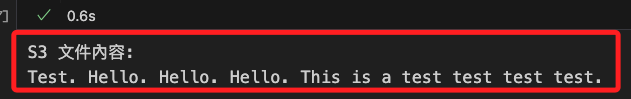
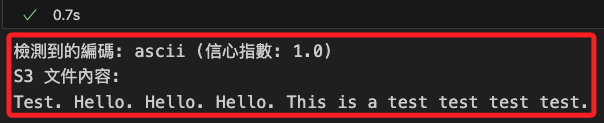
Commit on 2024-10-31 13:38:24

diff --git a/01_課程筆記/00_Lab/94020/Lab 7.1_Implementing a multi-lingual solution/01_官方範例/02_專案詳解.md b/01_課程筆記/00_Lab/94020/Lab 7.1_Implementing a multi-lingual solution/01_官方範例/02_專案詳解.md
@@ -695,13 +695,29 @@ _工作啟動之後，可使用 `get_transcription_job` 定期查詢轉錄工作
 5. 為求謹慎，運行以下腳本在本地查看 S3 文本中的內容。
 
     ```python
+    import chardet
+
+    # 定義 bucket 和文件的 key
+    bucket_name = bucket
+    # S3 中的文件路徑
+    s3_file_key = "lab71/translate-sample/test.txt"
+
     try:
         # 使用 get_object 取得 S3 文件內容
         response = s3_client.get_object(
             Bucket=bucket_name, Key=s3_file_key
         )
-        # 將內容解碼為字符串
-        file_content = response['Body'].read().decode('utf-8')
+        # 讀取文件內容的二進制數據
+        file_data = response['Body'].read()
+
+        # 檢測文件編碼
+        result = chardet.detect(file_data)
+        detected_encoding = result['encoding']
+        confidence = result['confidence']
+        print(f"檢測到的編碼: {detected_encoding} (信心指數: {confidence})")
+
+        # 使用檢測到的編碼進行解碼
+        file_content = file_data.decode(detected_encoding)
 
         print("S3 文件內容:")
         print(file_content)
